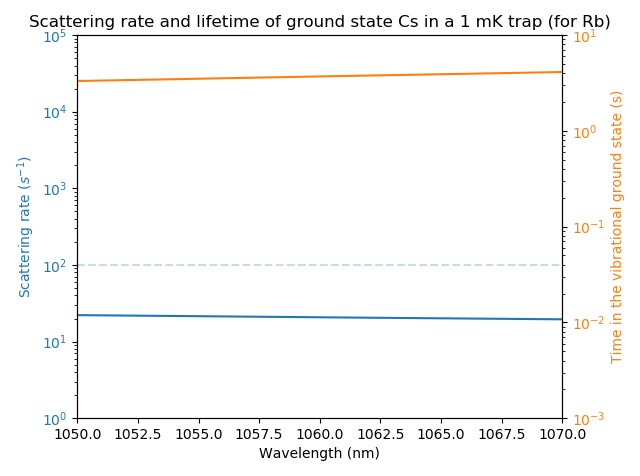
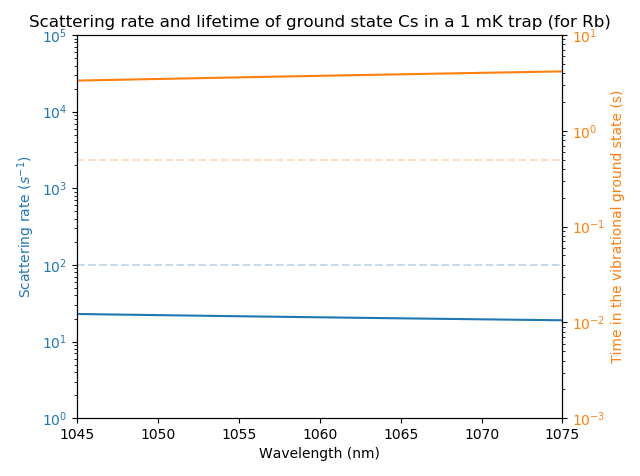
corrected time in vibrational ground state

diff --git a/AtomFieldInt_V3.py b/AtomFieldInt_V3.py
@@ -868,7 +868,7 @@ def compareKien():
     
 
 def check880Trap(wavelength = 880e-9,     # wavelength in m
-                 wavels = np.linspace(795,950,500)*1e-9, # wavelengths in m to plot
+                 wavels = np.linspace(795,930,500)*1e-9, # wavelengths in m to plot
                  power = 5e-3,            # beam power in W
                  beamwaist = 1e-6,        # beam waist in m
                  species = 'Rb'):         # which species to set a 1mK trap for
@@ -920,9 +920,10 @@ def check880Trap(wavelength = 880e-9,     # wavelength in m
     else:
         colors = ['tab:orange', 'tab:orange', 'k', 'tab:orange']
         linestyles = ['-', '-.', '--', ':']
-    res = np.zeros(len(Powers))
+    
     trapdepths = []
     for obj in [Cs6S, Cs6P, Rb5S, Rb5P]:
+        res = np.zeros(len(Powers))
         for i in range(len(Powers)):
             obj.field.E0 = 2 * np.sqrt(Powers[i] / eps0 / c / np.pi)/beamwaist
             # average mj states (doesn't have any effect on j=1/2 states)
@@ -957,7 +958,7 @@ def check880Trap(wavelength = 880e-9,     # wavelength in m
     IsatRbD1 = 4.484 *1e-3 *1e4 # saturation intensity for D1 transition, pi polarised
     RbRsc = Rb.lwS[0]/2. * I/IsatRbD1 / (1 + 4*(deltaRbD1/Rb.lwS[0])**2 + I/IsatRbD1) # per second
     # Rbtau = 1e-3*kB / (hbar*(2*np.pi/wavels))**2 * 2.*Rb.m / RbRsc # the lifetime is the trap depth / recoil energy / scattering rate
-    Rbt = 4*np.sqrt(Cs.m*abs(trapdepths[2])) / (2*np.pi/wavels)**2 /hbar /beamwaist /RbRsc # duration in vibrational ground state (s) = 1/Lamb-Dicke^2 /Rsc
+    Rbt = 4*np.sqrt(Rb.m*abs(trapdepths[2])) / (2*np.pi/wavels)**2 /hbar /beamwaist /RbRsc # duration in vibrational ground state (s) = 1/Lamb-Dicke^2 /Rsc
 
     # plot lifetime and scattering rate on the same axis:
     for Rsc, ts, X in [[RbRsc, Rbt, Rb.X], [CsRsc, Cst, Cs.X]]:
@@ -973,7 +974,7 @@ def check880Trap(wavelength = 880e-9,     # wavelength in m
 
         ax4 = ax3.twinx()
         ax4.semilogy(wavels*1e9, ts, color='tab:orange')
-        # ax4.plot(wavels*1e9, np.ones(len(wavels)), '--', color='tab:orange', alpha=0.25) # show acceptable region
+        ax4.plot(wavels*1e9, np.ones(len(wavels))/2., '--', color='tab:orange', alpha=0.25) # show acceptable region
         ax4.set_ylabel('Time in the vibrational ground state (s)', color='tab:orange')
         ax4.tick_params(axis='y', labelcolor='tab:orange')
         ax4.set_ylim(0.001,10)
@@ -993,7 +994,7 @@ if __name__ == "__main__":
     #             power = 5e-3, # power of Cs tweezer beam in W
     #             Rbpower = 1e-3, # power of Rb tweezer beam in W 
     #             beamwaist = 1e-6)
-    check880Trap(wavels=np.linspace(795, 930, 400)*1e-9)
+    check880Trap(wavels=np.linspace(795, 930, 400)*1e-9, species='Rb')
 
     # getMFStarkShifts()
     # plotStarkShifts(wlrange=[800,1100])
